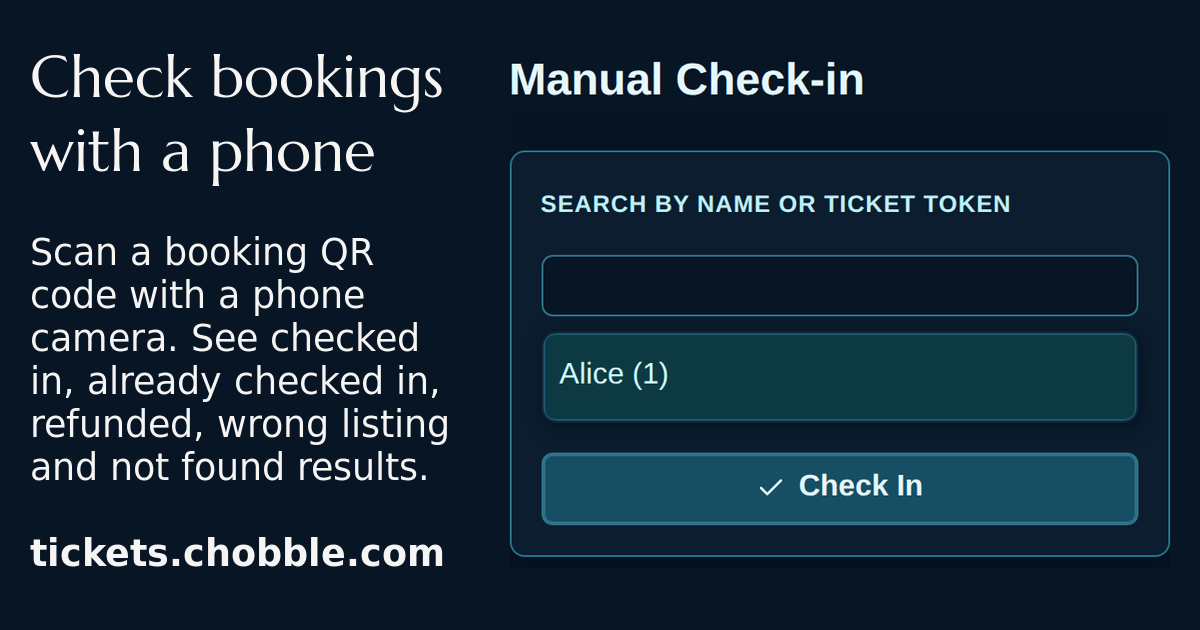
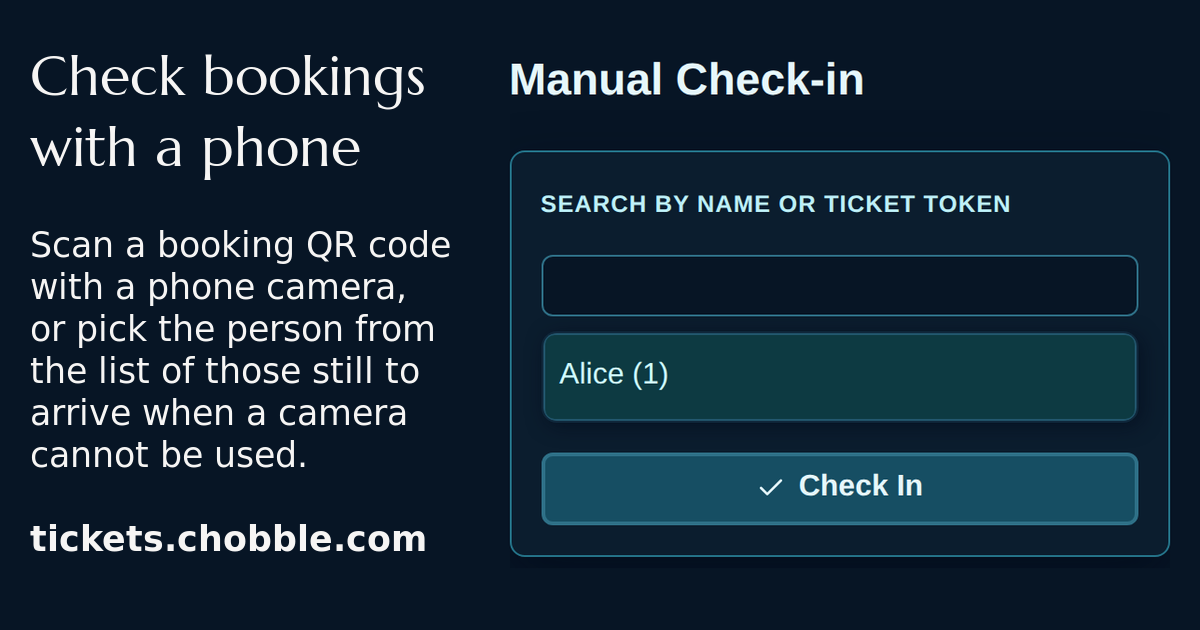
Match the check-in social copy to the pictured search
Claude-Session: https://claude.ai/code/session_01Sy7Q7X9UJsKKyCP9FCAtqK

diff --git a/scripts/social-screenshot-copy.js b/scripts/social-screenshot-copy.js
@@ -129,7 +129,7 @@ export const SOCIAL_SCREENSHOT_COPY = {
   },
   "qr-code-check-ins": {
     heading: "Check bookings with a phone",
-    body: "Scan a booking QR code with a phone camera. See checked in, already checked in, refunded, wrong listing and not found results.",
+    body: "Scan a booking QR code with a phone camera, or pick the person from the list of those still to arrive when a camera cannot be used.",
   },
   "schools-and-ptas": {
     heading: "Ticketing for school events",

diff --git a/facts/social-images.js b/facts/social-images.js
@@ -480,6 +480,12 @@ export const SOCIAL_IMAGE_FACTS = {
         "../tickets/src/ui/client/scanner.js:142-169",
       ],
     },
+    {
+      fact: "When a ticket cannot be read, the organiser can pick the person from a list. That list holds only the people still to arrive.",
+      sources: [
+        "../tickets/specs/attendees/checking-people-in-at-the-door.feature:103-124",
+      ],
+    },
   ],
   "schools-and-ptas": [
     {
